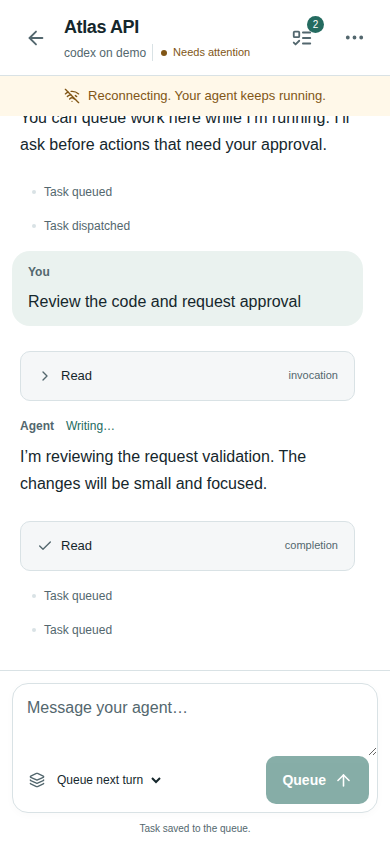
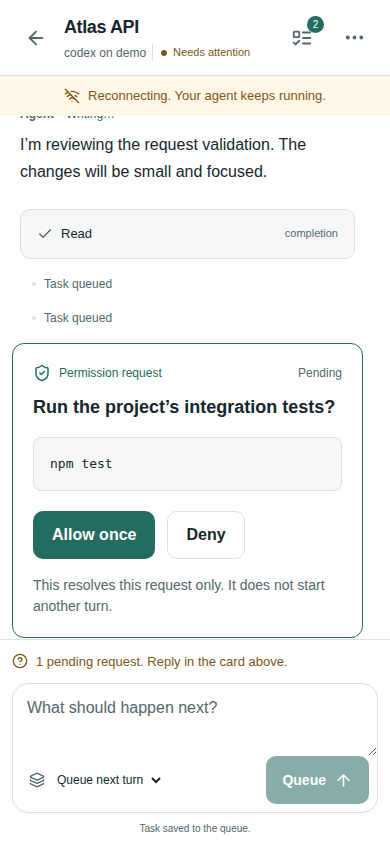
Preserve new composer drafts while earlier queue receipts are pending

diff --git a/tests/e2e/mobile.spec.ts b/tests/e2e/mobile.spec.ts
@@ -26,6 +26,12 @@ test('mobile chat: native approval, serial queued work, reconnect, and settings'
   page,
 }) => {
   await page.setViewportSize({ width: 390, height: 844 });
+  // A slow receipt must not erase a follow-up typed while the previous request is pending.
+  await page.route('**/api/sessions/*/tasks', async (route) => {
+    const response = await route.fetch();
+    await new Promise((resolve) => setTimeout(resolve, 200));
+    await route.fulfill({ response });
+  });
   await pair(page);
   await page.screenshot({ path: 'docs/screenshots/inbox-mobile.png' });
   await page.getByRole('button', { name: /Atlas API/ }).click();
@@ -96,14 +102,12 @@ test('responsive inbox supports phone, landscape, tablet, desktop, zoom, and red
     expect(
       await page.evaluate(() => document.documentElement.scrollWidth <= window.innerWidth),
     ).toBe(true);
-    const controls = await page
-      .locator('button:visible')
-      .evaluateAll((buttons: any[]) =>
-        buttons.map((b) => ({
-          label: b.getAttribute('aria-label') ?? b.textContent,
-          height: b.getBoundingClientRect().height,
-        })),
-      );
+    const controls = await page.locator('button:visible').evaluateAll((buttons: any[]) =>
+      buttons.map((b) => ({
+        label: b.getAttribute('aria-label') ?? b.textContent,
+        height: b.getBoundingClientRect().height,
+      })),
+    );
     expect(controls.filter((b: any) => b.height < 47)).toEqual([]);
   }
   await page.screenshot({ path: 'docs/screenshots/inbox-desktop.png' });

diff --git a/apps/web/src/App.tsx b/apps/web/src/App.tsx
@@ -414,8 +414,8 @@ function Conversation({
             method: 'POST',
             body: JSON.stringify({ prompt: value.prompt, idempotencyKey: value.key }),
           }),
-    onSuccess: () => {
-      setDraft('');
+    onSuccess: (_result, submitted) => {
+      setDraft((current) => (current === submitted.prompt ? '' : current));
       submission.current = undefined;
       setNotice(mode === 'steer' ? 'Active turn updated.' : 'Task saved to the queue.');
       void query.invalidateQueries({ queryKey: ['detail', session.id] });
